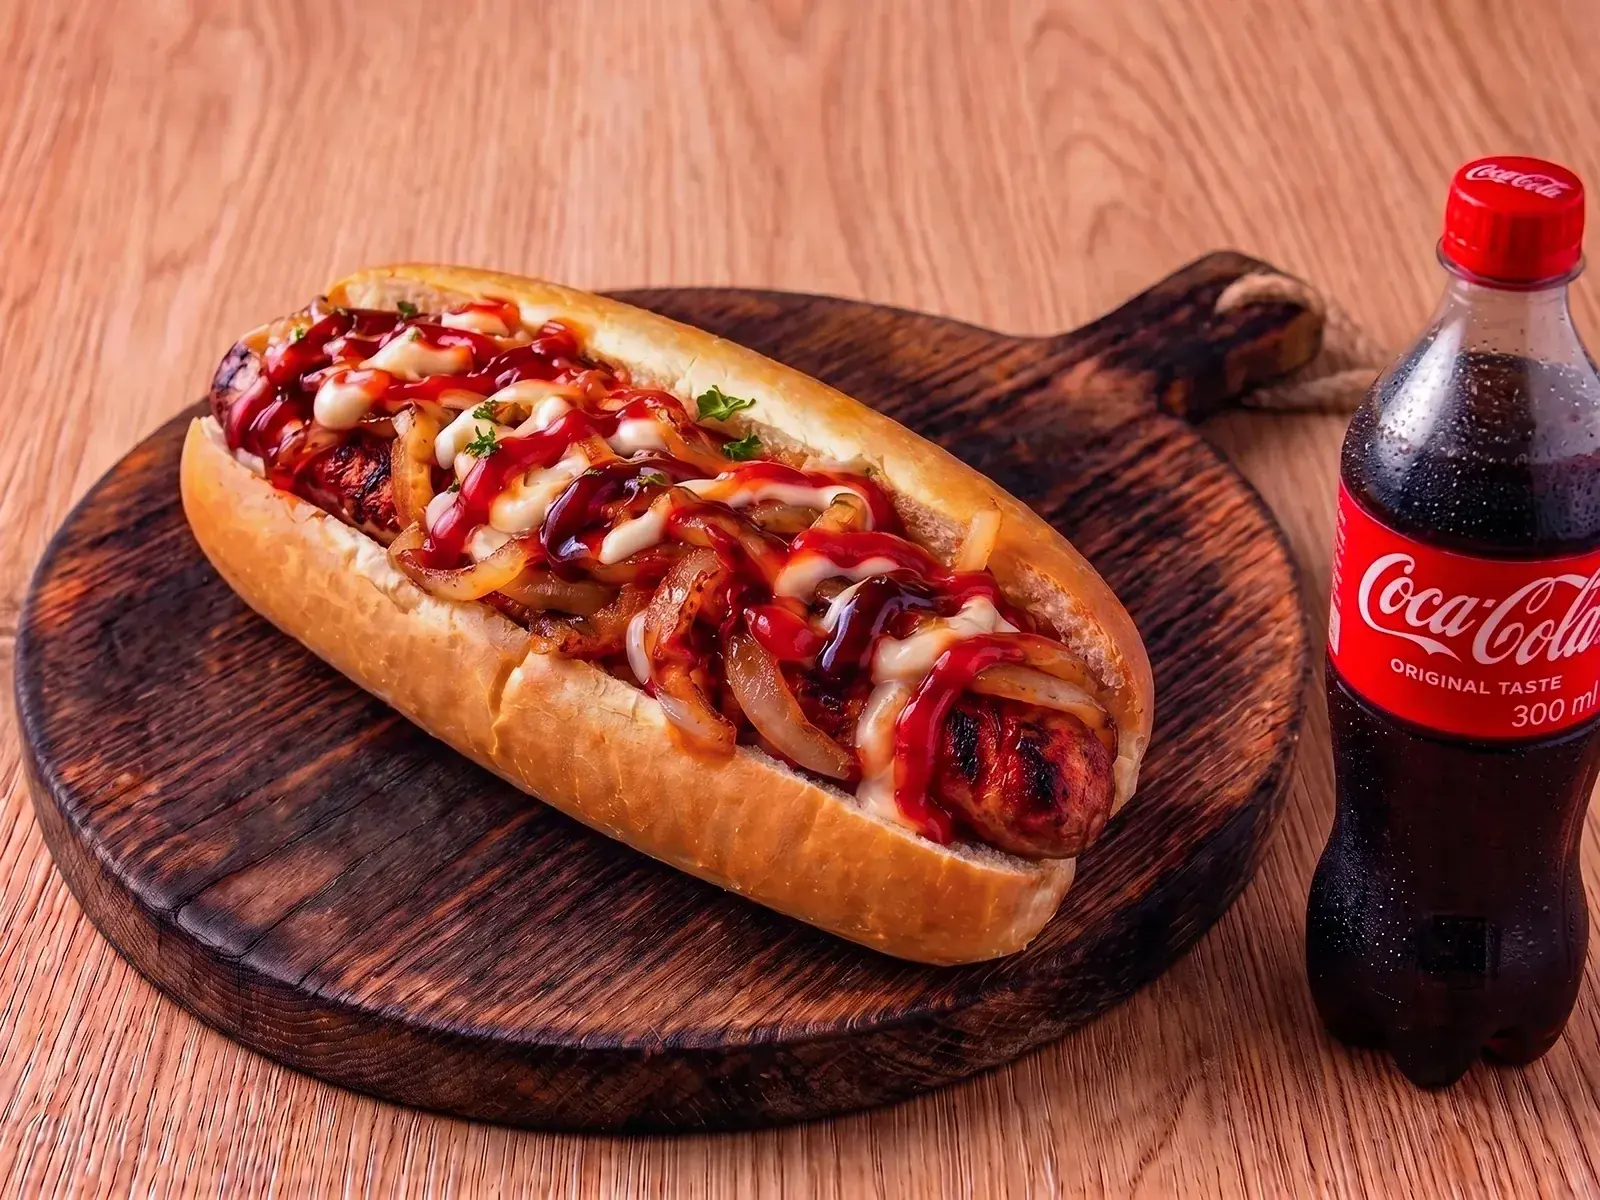
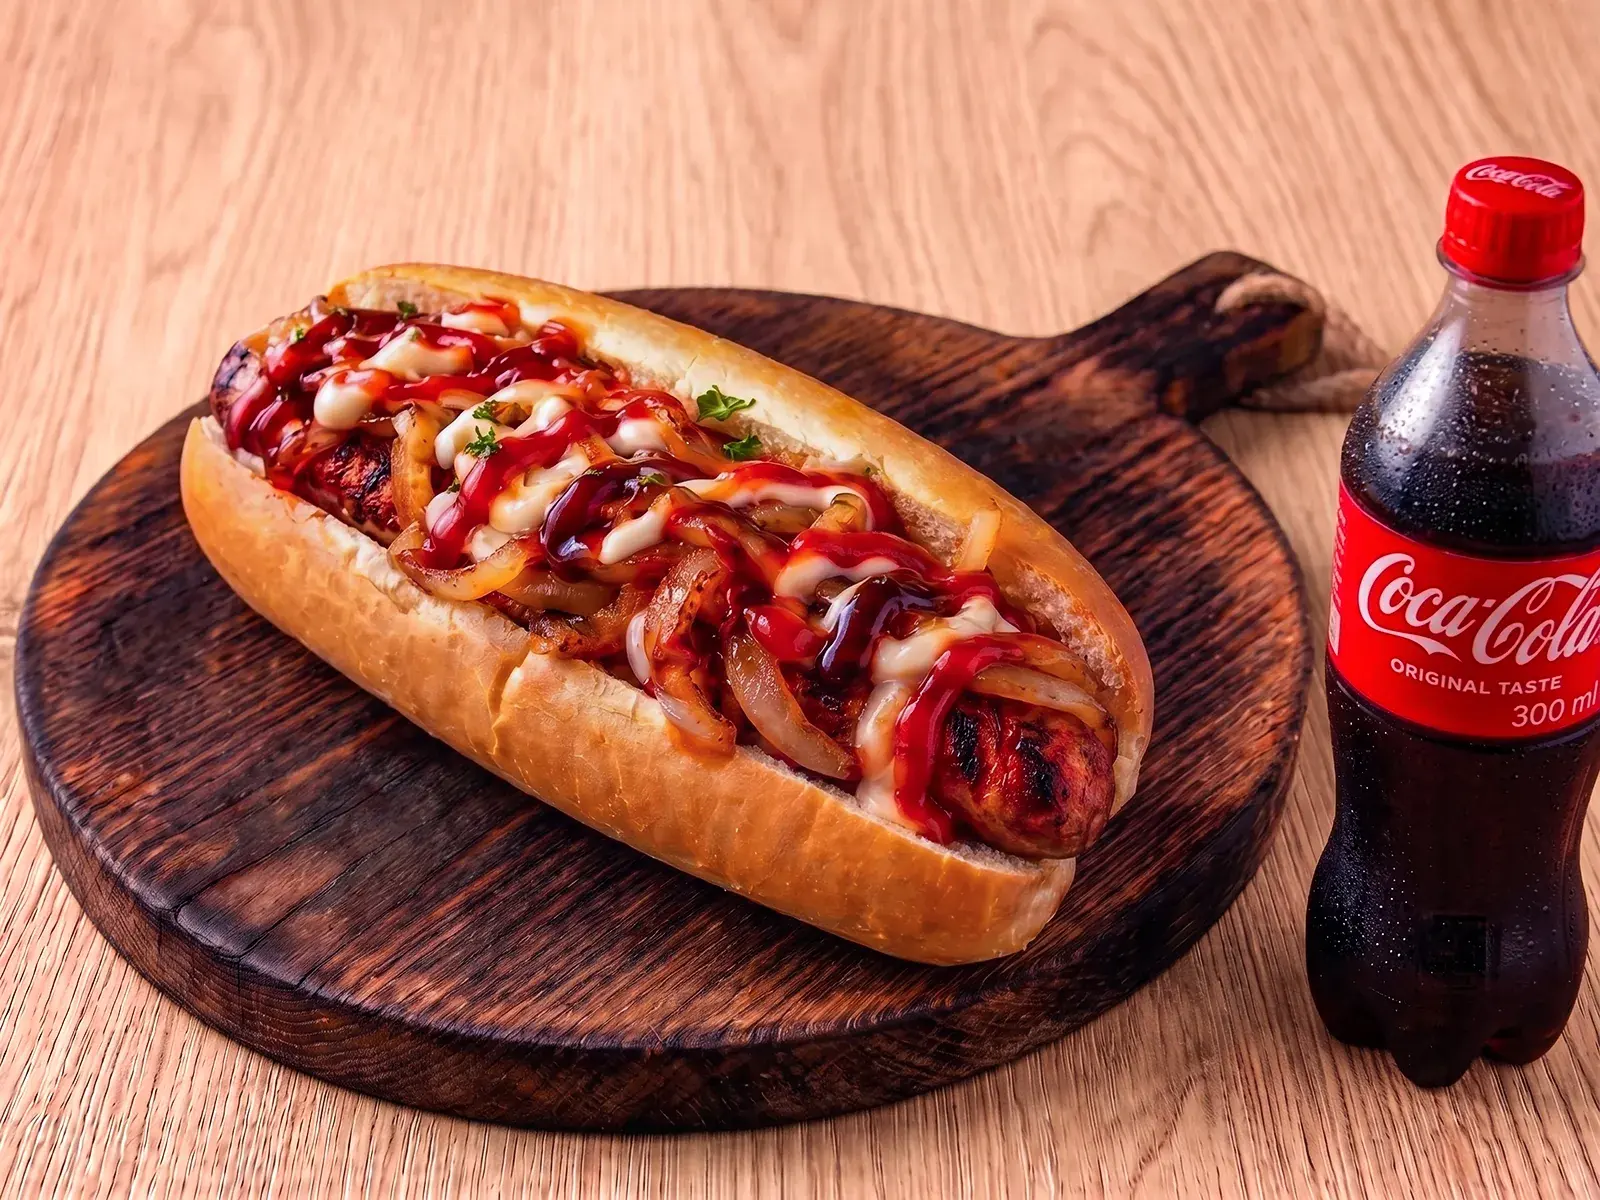
Replace Borewors Combo image with resized borewors-combo-2 and optimized 400px thumbnail

diff --git a/src/data/menuData.ts b/src/data/menuData.ts
@@ -252,7 +252,7 @@ export const MENU_ITEMS: MenuItem[] = [
     name: 'Borewors Combo',
     description: 'Flame-grilled traditional boerewors in a fresh roll topped with caramelized onions and signature sauces, served with an ice-cold 300ml Coca-Cola.',
     price: 49.90,
-    image: '/images/menu/borewors-combo.webp',
+    image: '/images/menu/borewors-combo-2.webp',
     popular: true,
     badge: 'COMBO DEAL',
   },
